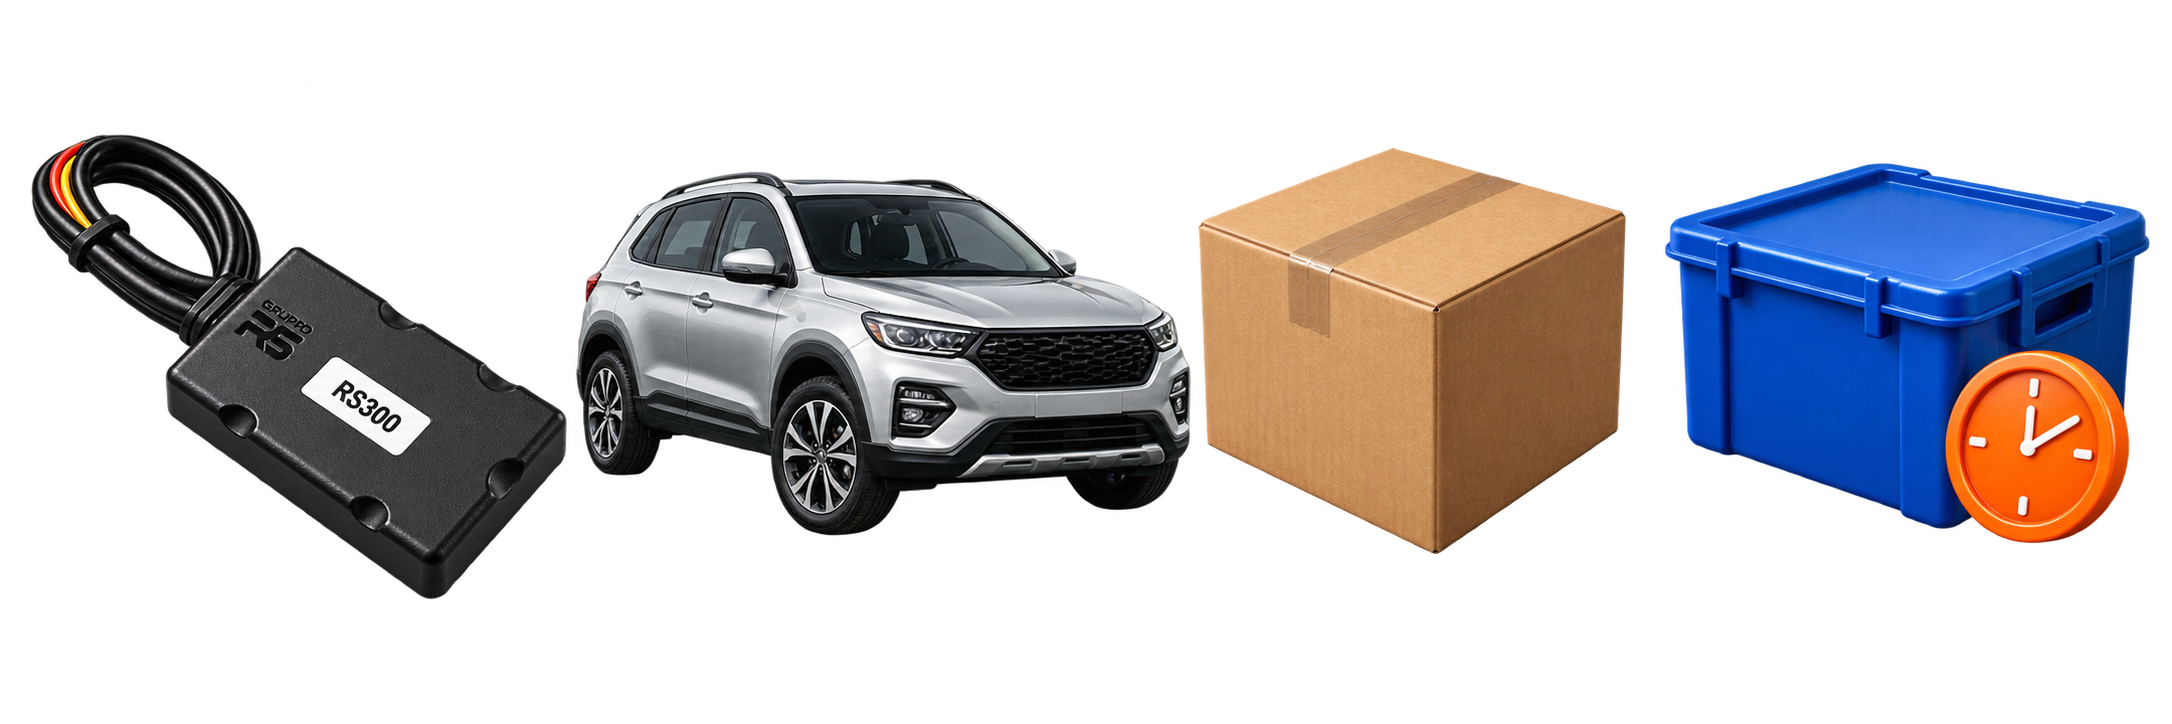
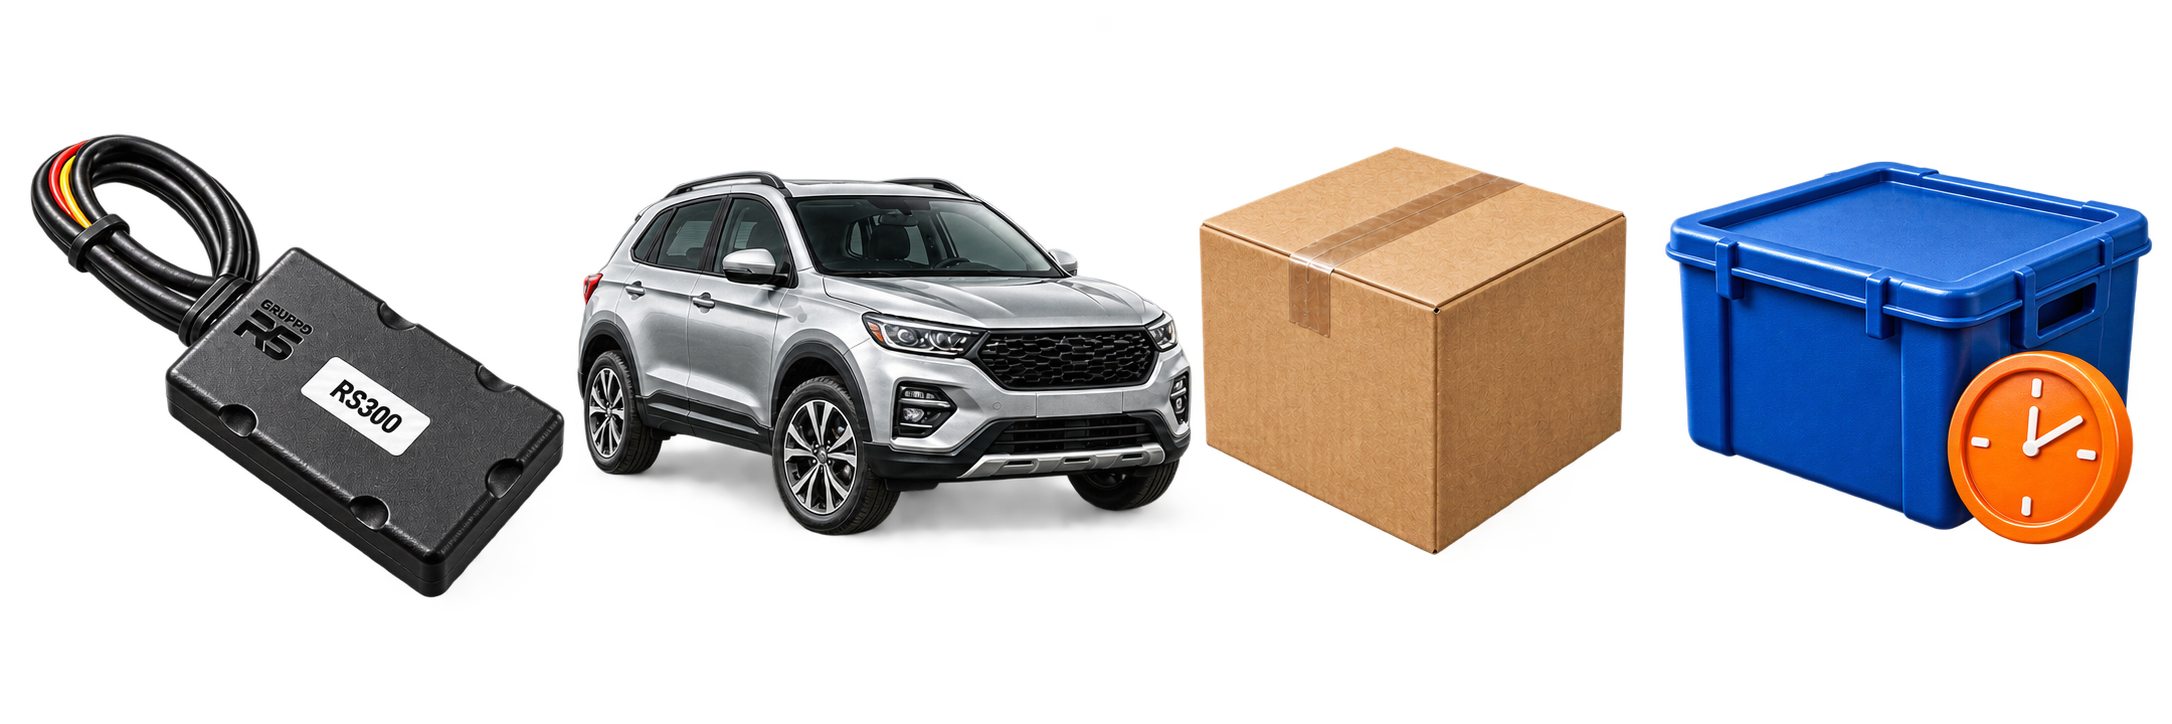
Improve dashboard metric artwork and enlarge tracker

diff --git a/central-paralela/public/styles.css b/central-paralela/public/styles.css
@@ -815,7 +815,7 @@ button:hover{border-color:#b88a36;background:#252a32}button.primary,#refresh-pag
  background-size:contain!important;
  background-position:center!important;
  background-repeat:no-repeat!important;
- transform:scale(1.6)!important;
+ transform:scale(1.8)!important;
  transform-origin:right center!important;
 }
 
